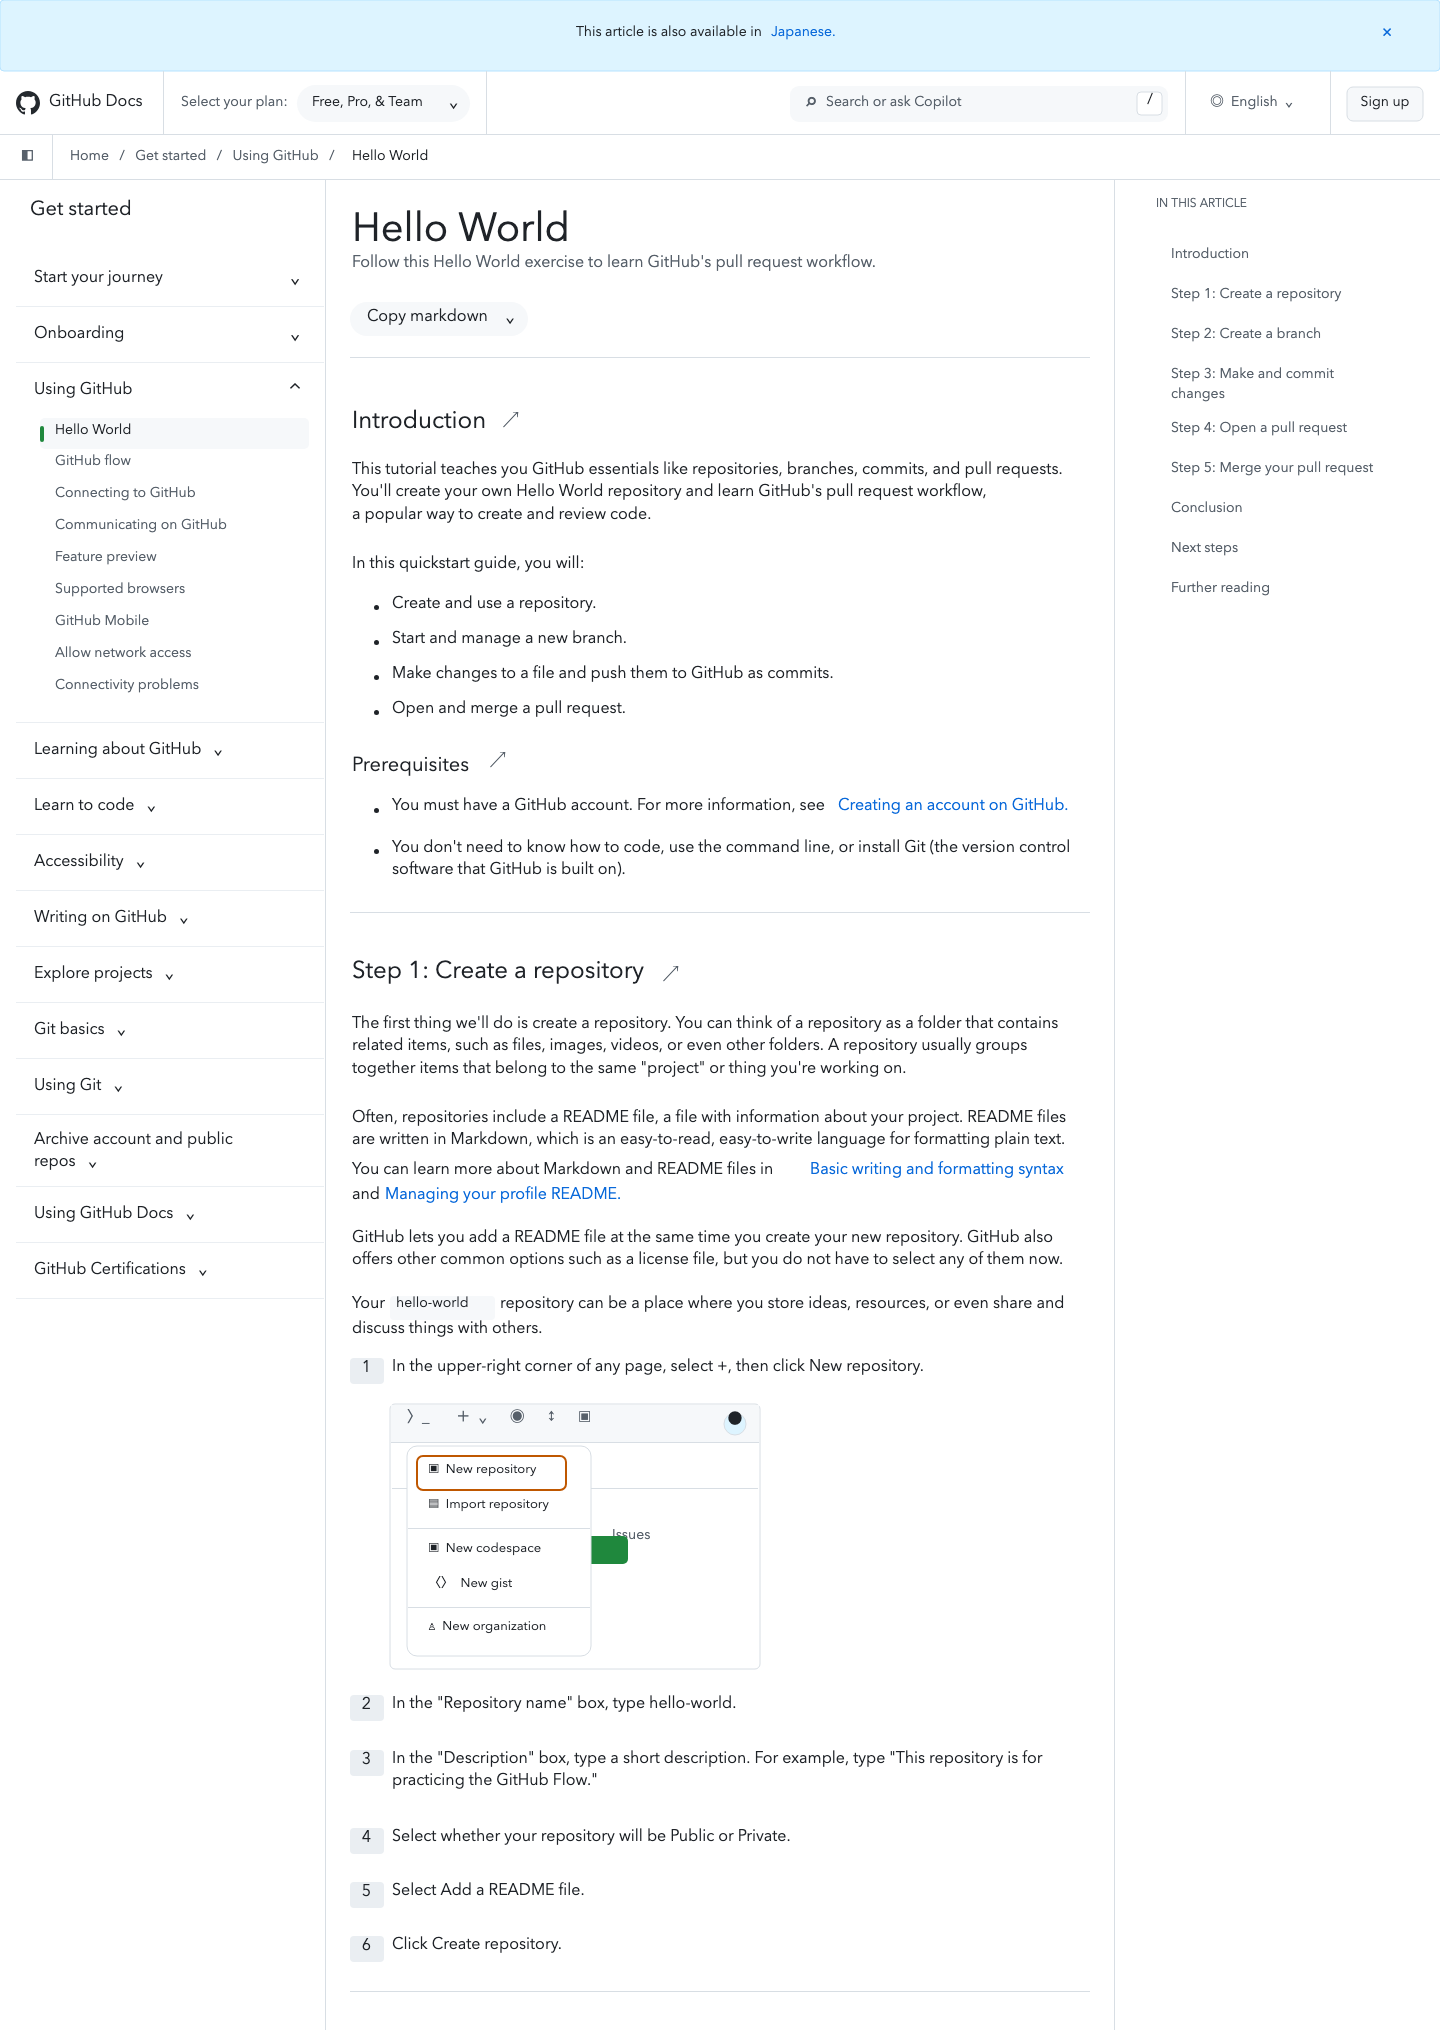
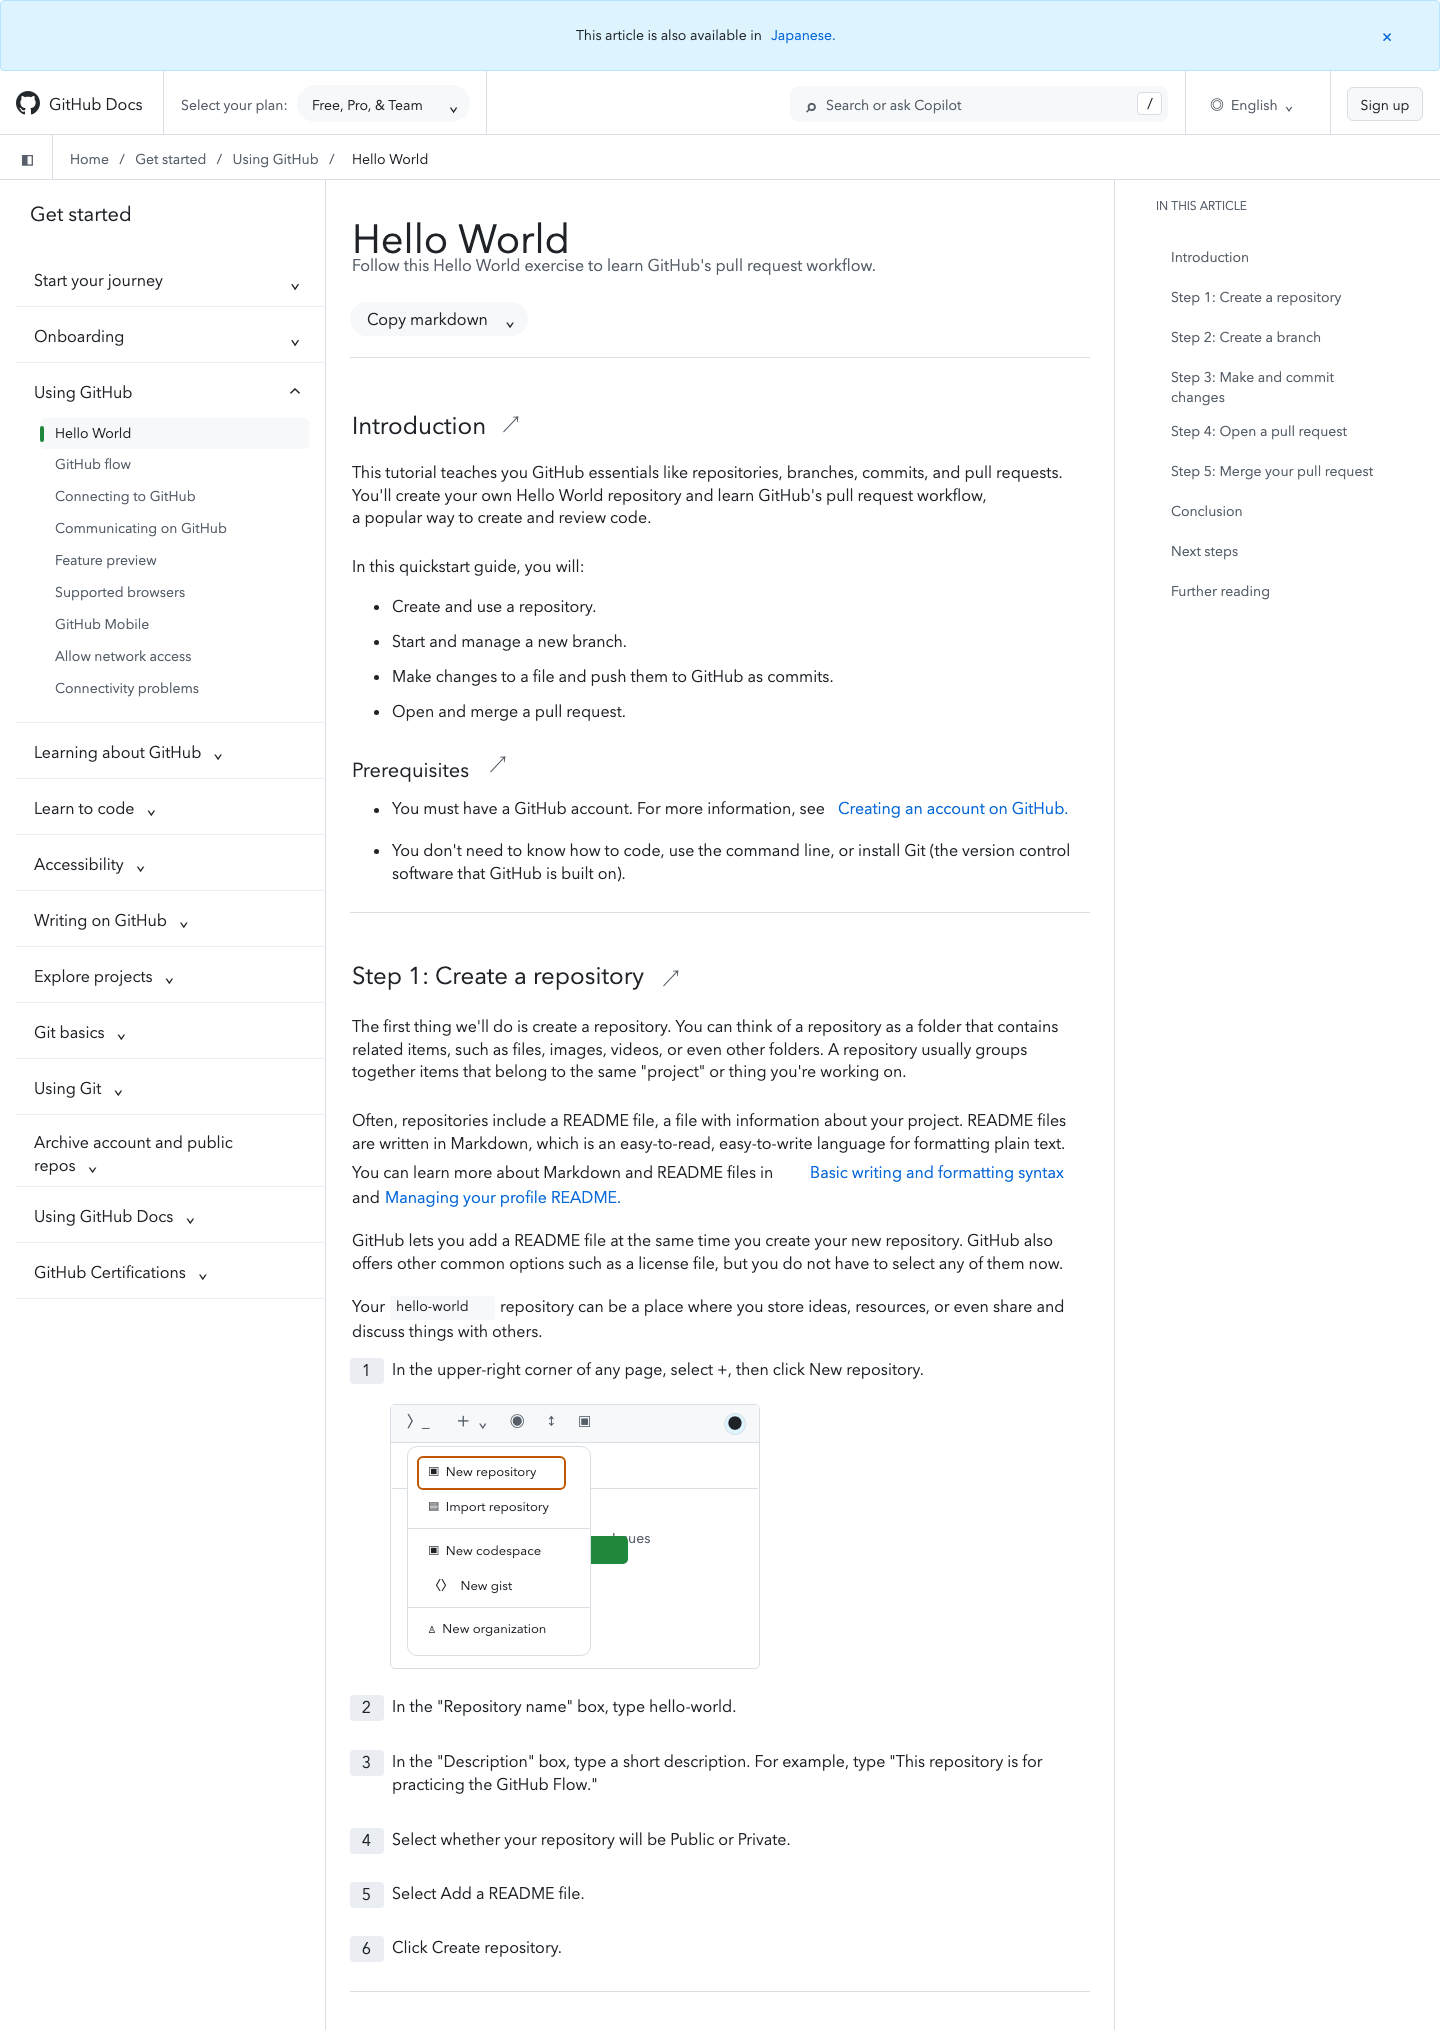
fix(canvas): PNG 書き出しと編集画面の描画位置を揃える
intent(canvas): 編集画面と PNG で図形・番号札の枠と文字位置を一致させたい
learned(rendering): フレーム枠と透明な文字枠が子要素をずらし、Canvas の top 基準は CSS の行ボックスと異なる
decision(export): 線を図形領域内に収め、フォントの計測値で文字のベースラインを合わせる

diff --git a/src/export/framePng.ts b/src/export/framePng.ts
@@ -50,23 +50,27 @@ async function paintNode(ctx: CanvasRenderingContext2D, node: DocumentNode, load
         if (Result.isFailure(painted)) return painted;
       }
     } else if (node.type === "rectangle") {
+      const strokeWidth = Math.min(node.strokeWidth, node.width, node.height);
+      const inset = strokeWidth / 2;
       ctx.beginPath();
-      ctx.roundRect(0, 0, node.width, node.height, node.cornerRadius);
+      ctx.roundRect(inset, inset, node.width - strokeWidth, node.height - strokeWidth, Math.max(0, node.cornerRadius - inset));
       ctx.fillStyle = node.fill;
       ctx.fill();
-      if (node.strokeWidth > 0) {
+      if (strokeWidth > 0) {
         ctx.strokeStyle = node.stroke;
-        ctx.lineWidth = node.strokeWidth;
+        ctx.lineWidth = strokeWidth;
         ctx.stroke();
       }
     } else if (node.type === "ellipse") {
+      const strokeWidth = Math.min(node.strokeWidth, node.width, node.height);
+      const inset = strokeWidth / 2;
       ctx.beginPath();
-      ctx.ellipse(node.width / 2, node.height / 2, node.width / 2, node.height / 2, 0, 0, Math.PI * 2);
+      ctx.ellipse(node.width / 2, node.height / 2, Math.max(0, node.width / 2 - inset), Math.max(0, node.height / 2 - inset), 0, 0, Math.PI * 2);
       ctx.fillStyle = node.fill;
       ctx.fill();
-      if (node.strokeWidth > 0) {
+      if (strokeWidth > 0) {
         ctx.strokeStyle = node.stroke;
-        ctx.lineWidth = node.strokeWidth;
+        ctx.lineWidth = strokeWidth;
         ctx.stroke();
       }
     } else if (node.type === "text") {
@@ -75,11 +79,17 @@ async function paintNode(ctx: CanvasRenderingContext2D, node: DocumentNode, load
       ctx.clip();
       ctx.font = `${node.fontSize}px "Avenir Next", "Hiragino Kaku Gothic ProN", "Yu Gothic", sans-serif`;
       ctx.textAlign = node.textAlign;
-      ctx.textBaseline = "top";
+      ctx.textBaseline = "alphabetic";
       ctx.fillStyle = node.color;
       const x = node.textAlign === "center" ? node.width / 2 : node.textAlign === "right" ? node.width - 2 : 2;
+      const lineHeight = node.fontSize * 1.4;
+      const metrics = ctx.measureText("Mg");
+      const ascent = metrics.fontBoundingBoxAscent ?? node.fontSize;
+      const descent = metrics.fontBoundingBoxDescent ?? node.fontSize * 0.35;
+      // CSS の 2px padding と 1.4 の行高に合わせて行ボックス内に文字を置く。
+      const baseline = 2 + (lineHeight - ascent - descent) / 2 + ascent;
       const lines = wrapText(node.content, node.width - 4, (text) => ctx.measureText(text).width);
-      lines.forEach((line, index) => ctx.fillText(line, x, 2 + index * node.fontSize * 1.4));
+      lines.forEach((line, index) => ctx.fillText(line, x, baseline + index * lineHeight));
     } else {
       const image = await loadImage(node.source);
       const width = image.naturalWidth;

diff --git a/src/App.css b/src/App.css
@@ -279,7 +279,6 @@ button {
   border-radius: 2px;
   padding: 0;
   background: #f3d9c8;
-  box-shadow: 0 6px 20px #52504716;
   touch-action: none;
   user-select: none;
   cursor: grab;
@@ -295,13 +294,13 @@ button {
   cursor: grabbing;
 }
 .canvas-ellipse { border-radius: 50%; }
-.canvas-frame { position: absolute; border: 1px dashed #a6aba7; border-radius: 3px; background: #fbfaf7c9; box-shadow: 0 4px 16px #52504718; cursor: grab; }
+.canvas-frame { position: absolute; outline: 1px dashed #a6aba7; border-radius: 3px; background: #fbfaf7c9; cursor: grab; }
 .frame-contents { position: absolute; inset: 0; pointer-events: none; }
 .frame-contents > * { pointer-events: auto; }
 .canvas-frame.is-selected { outline: 2px solid var(--accent); outline-offset: 3px; }
-.canvas-text { position: absolute; border: 1px solid transparent; padding: 2px; background: transparent; color: var(--ink); text-align: left; white-space: pre-wrap; overflow: hidden; overflow-wrap: anywhere; font: 16px/1.4 "Avenir Next", sans-serif; cursor: grab; touch-action: none; user-select: none; }
-.canvas-text.is-selected { border-color: var(--accent); outline: 2px solid var(--accent); outline-offset: 2px; }
-.canvas-image { position: absolute; border: 1px solid transparent; padding: 0; background: #eee; cursor: grab; touch-action: none; user-select: none; }
+.canvas-text { position: absolute; border: 0; padding: 2px; background: transparent; color: var(--ink); text-align: left; white-space: pre-wrap; overflow: hidden; overflow-wrap: anywhere; font: 16px/1.4 "Avenir Next", "Hiragino Kaku Gothic ProN", "Yu Gothic", sans-serif; cursor: grab; touch-action: none; user-select: none; }
+.canvas-text.is-selected { outline: 2px solid var(--accent); outline-offset: 2px; }
+.canvas-image { position: absolute; border: 0; padding: 0; background: #eee; cursor: grab; touch-action: none; user-select: none; }
 .canvas-image.is-selected { outline: 2px solid var(--accent); outline-offset: 2px; }
 .canvas-image img { width: 100%; height: 100%; object-fit: cover; pointer-events: none; user-select: none; }
 .image-file-input { display: none; }
